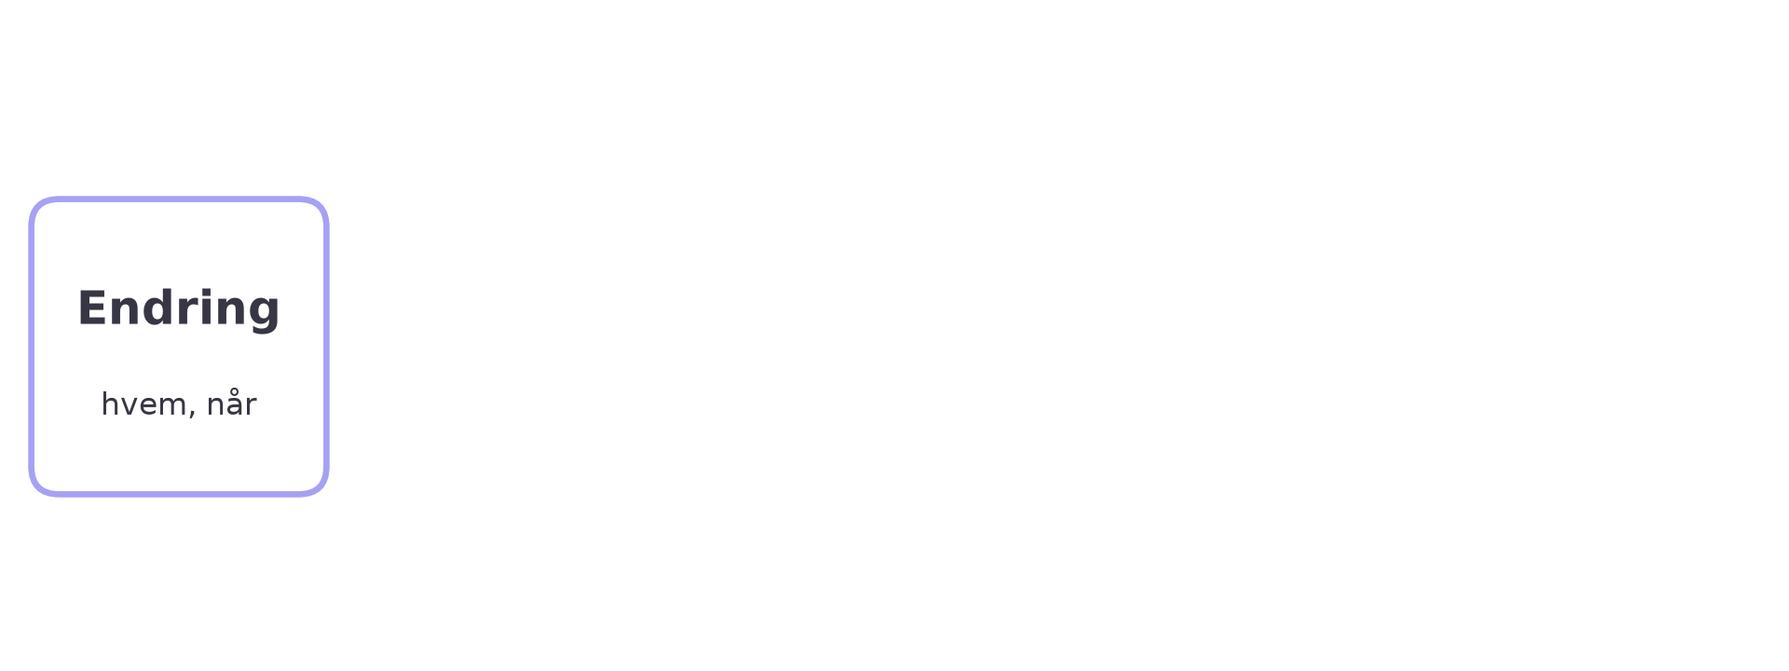
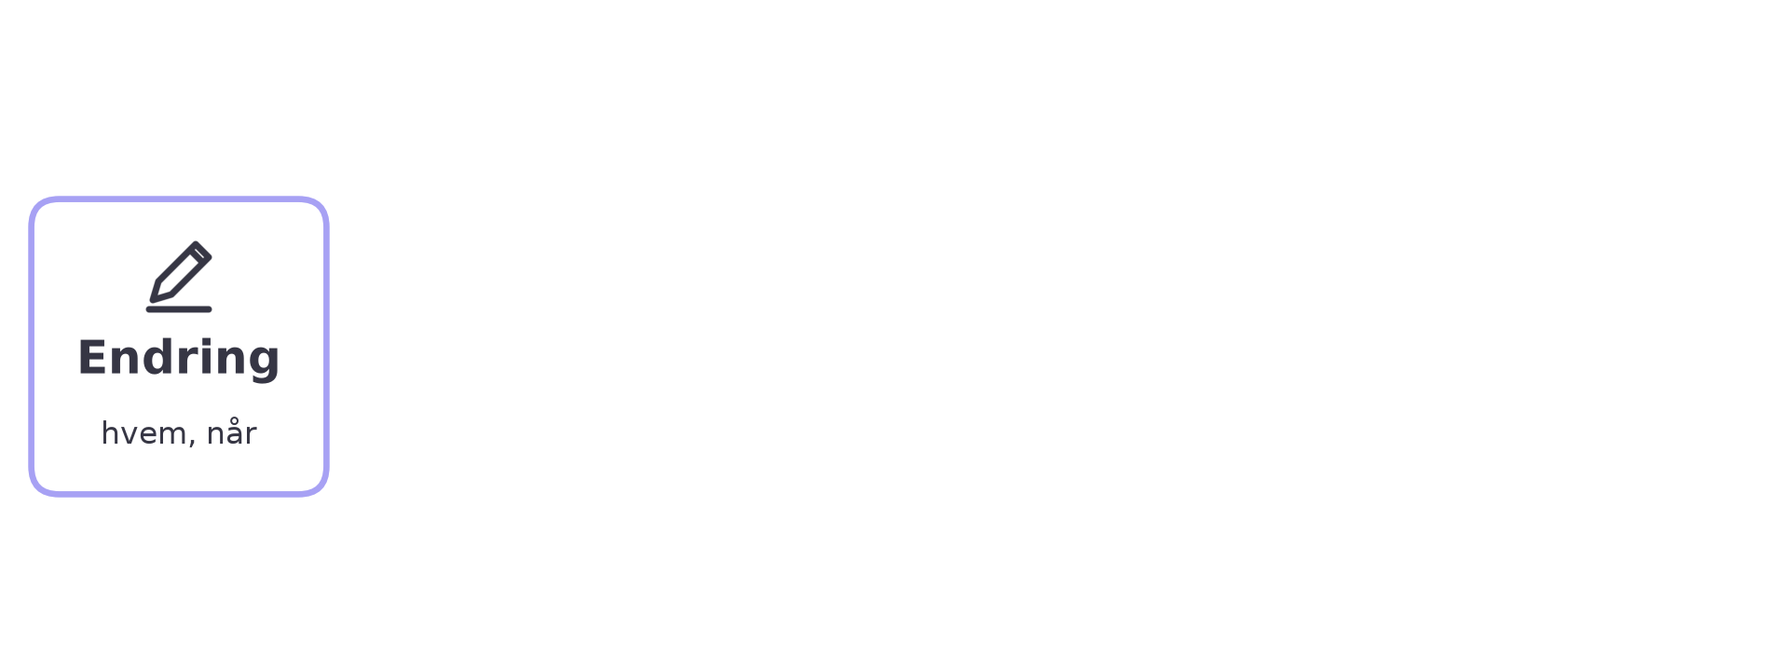
Åpen forskning, Født FAIR; samskriving; NOR-CAM; piktogrammer
Claude-Session: https://claude.ai/code/session_016zWeqZ6yZ7hxAzraApGpHd

Changed region(s): [[0.0312, 0.3667, 0.1562, 0.6722]]

diff --git a/index.html b/index.html
@@ -185,8 +185,8 @@
   .reveal section.title-photo .big { color: #363644; font-size: .95em; font-weight: 500; text-align: left; margin: 0; }
   .reveal section.title-photo .kicker { color: #4a5568; text-align: left; }
   .reveal section.title-photo .byline { color: #363644; font-size: .75em; text-align: left; margin: 0 0 .3em; }
-  .eco { display: flex; flex-wrap: wrap; gap: .35em; justify-content: center; margin: .3em auto .7em; font-size: .75em; }
-  .eco span { background: #eefbe8; border: 2px solid #8fd67a; border-radius: 999px; padding: .2em .8em; font-weight: 700; }
+  .eco { display: flex; flex-wrap: wrap; gap: .3em; justify-content: center; margin: .3em auto .7em; font-size: .66em; }
+  .eco span { background: #eefbe8; border: 2px solid #8fd67a; border-radius: 999px; padding: .2em .6em; font-weight: 700; }
   .fair { display: grid; grid-template-columns: repeat(4, 1fr); gap: .5em; width: 94%; margin: 0 auto; text-align: left; }
   .fair div { border: 2px solid var(--mm-purple); border-radius: 12px; padding: .4em .6em; font-size: .75em; }
   .fair b { display: block; font-size: 2.4em; line-height: 1; color: #5a4fcf; }
@@ -196,6 +196,13 @@
   .why .card { font-size: .85em; } .why .card p { margin: 0; color: var(--muted); }
   .split2 { display: grid; grid-template-columns: 1fr 1fr; gap: .8em; width: 80%; margin: .5em auto 0; text-align: left; }
   .split2 .card { font-size: .85em; } .split2 ul { margin: .2em 0 0 1em; } .split2 li { margin: .15em 0; }
+  .reveal img.ico { display: inline-block; width: 1.3em; height: 1.3em; vertical-align: middle; margin: -.15em .4em 0 0; max-height: none; border: 0; box-shadow: none; }
+  .reveal .fair img.ico { display: block; width: 2.2em; height: 2.2em; margin: .3em 0 .1em; }
+  .reveal .eco img.ico { width: 1.1em; height: 1.1em; margin: -.1em .3em 0 0; }
+  html.dark .ico { filter: invert(1); }
+  .norcam { display: grid; grid-template-columns: auto 1fr; gap: 1.2em; align-items: center; width: 84%; margin: .4em auto 0; text-align: left; }
+  .reveal .norcam img { height: 56vh; width: auto; margin: 0; box-shadow: 0 4px 18px rgba(0,0,0,.18); }
+  .norcam .big { font-size: 1em; }
 </style>
 </head>
 <body>
@@ -239,22 +246,20 @@
 <section>
   <section class="chapter" data-background-color="#5a4fcf">
     <p class="chapnum" style="color:#fff">1</p>
-    <h2 style="color:#fff">Hvorfor åpen forskning nå?</h2>
+    <h2 style="color:#fff">Åpen forskning</h2>
     <aside class="notes">Først: hvorfor åpen forskning er viktigere nå enn før.</aside>
   </section>
   <section class="center-slide">
-    <p class="kicker">Åpen forskning</p>
     <h2>Hvorfor er åpenhet viktigere med KI?</h2>
     <div class="why">
-      <div class="card purple fragment"><h3>Bevis</h3><p>Maskinene kan lage produktet. Bare prosessen viser hvem som gjorde hva.</p></div>
-      <div class="card green fragment"><h3>Tillit</h3><p>Når tekst kan genereres, flytter tilliten seg til det som kan etterprøves.</p></div>
-      <div class="card purple fragment"><h3>Etterprøvbarhet</h3><p>Modellene skifter. Uten versjoner og data kan ingen gjenta resultatet.</p></div>
-      <div class="card green fragment"><h3>Egne modeller</h3><p>Åpne og FAIR data er grunnlaget for modeller vi kan stole på.</p></div>
+      <div class="card purple fragment"><h3><img class="ico" src="images/ico/search.svg" alt="">Bevis</h3><p>Maskinene kan lage produktet. Bare prosessen viser hvem som gjorde hva.</p></div>
+      <div class="card green fragment"><h3><img class="ico" src="images/ico/shield.svg" alt="">Tillit</h3><p>Når tekst kan genereres, flytter tilliten seg til det som kan etterprøves.</p></div>
+      <div class="card purple fragment"><h3><img class="ico" src="images/ico/repeat.svg" alt="">Etterprøvbarhet</h3><p>Modellene skifter. Uten versjoner og data kan ingen gjenta resultatet.</p></div>
+      <div class="card green fragment"><h3><img class="ico" src="images/ico/chip.svg" alt="">Egne modeller</h3><p>Åpne og FAIR data er grunnlaget for modeller vi kan stole på.</p></div>
     </div>
     <aside class="notes">Åpen forskning har vært et ideal i mange år. Med KI blir det en nødvendighet, av fire grunner. (Klikk.) Bevis: når en maskin kan skrive artikkelen og analysere dataene, er det ferdige produktet ikke lenger et bevis på at kandidaten kan forske. Det er bare prosessen som viser hvem som gjorde hva. (Klikk.) Tillit: når tekst kan genereres, kan vi ikke stole på teksten alene. Tilliten må flytte seg til det som kan etterprøves: data, kode, versjoner og logg. (Klikk.) Etterprøvbarhet: modellene skifter hele tiden, som jeg skal vise. Uten versjonsnummer og data kan ingen gjenta resultatet, heller ikke vi selv om et år. (Klikk.) Egne modeller: hvis vi vil ha modeller vi kan stole på, må de trenes på materiale vi vet hva er, og det krever åpne og FAIR data med lisens. Åpen forskning er altså ikke bare et etisk krav, men selve løsningen.</aside>
   </section>
   <section class="center-slide">
-    <p class="kicker">Mennesker og maskiner</p>
     <h2>Strengere med maskiner enn med mennesker?</h2>
     <div class="layers" style="width:1400px">
       <img class="lay" src="images/fig-roles-1.png" alt="">
@@ -265,7 +270,6 @@
     <aside class="notes">Forskere har alltid fått hjelp. En vitenskapelig assistent finner litteratur, samler inn og analyserer data. (Klikk.) En språkvasker retter språk, form og referanser. De blir takket i forordet, men ingen ber om en logg over hva de endret. (Klikk.) En KI-agent kan gjøre begge jobbene. Og nå krever vi erklæringer, versjonsnummer og helst en andel generert tekst. Er vi strengere med maskiner enn med mennesker? Delvis med god grunn: et menneske kan stå til ansvar, det kan ikke en modell. Men en stipendiat har også fått hjelp av veiledere, kolleger og samtaler i gangen, og det har vi aldri dokumentert. (Klikk.) Så spørsmålet går begge veier: hvis åpenhet er riktig for maskinene, er vi klare for å kreve det samme av mennesker? Verktøyene jeg skal vise, gjør ikke forskjell på dem.</aside>
   </section>
   <section class="center-slide" data-depth="more">
-    <p class="kicker">Agenter</p>
     <h2>Hvem tok valgene underveis?</h2>
     <div class="layers" style="width:1700px">
       <img class="lay" src="images/fig-agent-1.png" alt="">
@@ -274,12 +278,10 @@
     <aside class="notes">Det siste året har KI-verktøyene endret seg. Generativ KI svarer på en bestilling: du spør, den svarer, og du bestemmer hva som skjer videre. (Klikk.) Agentisk KI får et mål og går mange steg på egen hånd: planlegger, bruker verktøy, sjekker og prøver igjen. Da er spørsmålet ikke bare hvem som skrev teksten, men hvem som tok valgene underveis. For en veileder er det det samme spørsmålet vi alltid har stilt om en stipendiat. Det samme skillet kommer i innledningen til DNVA-møtet om forskningsetikk og KI i kveld.</aside>
   </section>
   <section class="center-slide" data-depth="more">
-    <p class="kicker">Uke for uke</p>
     <img class="fig" src="images/fig-uker.png" alt="Endringer per uke i 2026, med og uten KI-medforfatter" style="max-height:70vh">
     <aside class="notes">Av endringene i repoene mine i år har <span data-n="commits_ai_p"></span> en KI-medforfatter. Her er tellingen uke for uke. Lilla er endringer gjort av mennesker alene, grønn er endringer med en KI-medforfatter. Våren var det meste mitt eget; fra sommeren har agentene gjort en stor del av arbeidet. Den siste uken er ikke ferdig. Poenget er ikke tallet, men at det kan telles.</aside>
   </section>
   <section class="center-slide" data-depth="more">
-    <p class="kicker">Et eksempel</p>
     <h2>Agenten rydder, jeg bestemmer</h2>
     <img src="images/osdb-zenodo.png" alt="Zenodo-posten for Oslo Standstill Database, med samlinger og versjoner" style="max-height:58vh;border-radius:10px">
     <aside class="notes">Et eksempel fra i sommer, som jeg også viste for UiOs datamanagere i går. Oslo Standstill Database er femten år med bevegelsesdata fra folk som prøver å stå stille. Jeg hadde tenkt å rydde i den i ti år. Med KI-agenter tok det omtrent to måneder: hver samling er nå sin egen post med egen DOI, med siteringsfil og sjekksummer. Agenten gjorde ryddejobben, jeg leste og bestemte. Det er den arbeidsdelingen jeg ønsker for stipendiatene også.</aside>
@@ -290,17 +292,15 @@
 <section>
   <section class="chapter" data-background-color="#C1F7AE">
     <p class="chapnum" style="color:#363644">2</p>
-    <h2 style="color:#363644">En åpen og FAIR prosess</h2>
+    <h2 style="color:#363644">Født FAIR</h2>
     <aside class="notes">Så verktøyene. De finnes allerede, og de er gratis.</aside>
   </section>
   <section class="center-slide">
-    <p class="kicker">Versjonskontroll</p>
     <h2>Hver endring har en forfatter, et tidspunkt og en melding</h2>
     <pre class="code" style="white-space:pre-wrap;font-size:.62em;max-width:1700px;margin:0 auto"><span data-n="commit_msg"></span></pre>
     <aside class="notes">Dette er en ekte endring fra i forrige uke, i læreboken til emnet Creative AI. Versjonskontrollsystemet git har vært standard i programvareutvikling i tyve år. Hver endring får en forfatter, et tidspunkt, en melding og et fingeravtrykk. Den siste linjen sier at en KI-agent var medforfatter, og hvilken modell. Det er en konvensjon som de vanlige verktøyene allerede forstår: nettstedet viser medforfatteren ved siden av meg, og kommandolinjeverktøyet gh kan hente det samme ut. Det koster meg ingenting ekstra.</aside>
   </section>
   <section class="center-slide">
-    <p class="kicker">Identifikatorer</p>
     <h2>Fra endring til sitering</h2>
     <div class="layers" style="width:1700px">
       <img class="lay" src="images/fig-kjede-0.png" alt="Endring: hvem, når, hva">
@@ -312,13 +312,11 @@
     <aside class="notes">Endringene samles i versjoner. (Klikk.) En versjon arkiveres og får en DOI, en varig identifikator som peker på nøyaktig den versjonen. (Klikk.) Forfatterne knyttes til den med ORCID. (Klikk.) Og en liten fil i prosjektet forteller hvordan det skal siteres, i et format maskiner kan lese. (Klikk.) Alt dette er gratis, åpent og i bruk i dag. Vi trenger ikke å finne opp noe nytt for å dokumentere hva som er gjort, av hvem og når.</aside>
   </section>
   <section class="center-slide">
-    <p class="kicker">Arbeidslogg</p>
     <h2>Skriv ned hva som ble gjort, og av hvem</h2>
     <pre class="code" style="white-space:pre-wrap;font-size:.62em;max-width:1700px;margin:0 auto"><span data-n="worklog"></span></pre>
     <aside class="notes">Det andre verktøyet er det enkleste av alle: en arbeidslogg i ren tekst i hver prosjektmappe. Dette er den siste oppføringen i mappen for dette innlegget, skrevet da lysbildene ble laget. Loggen sier hva som ble gjort, med hvilke verktøy og hvem som bestemte. Den er versjonert som alt annet, så den kan ikke skrives om i ettertid uten at det synes.</aside>
   </section>
   <section class="center-slide">
-    <p class="kicker">Mennesker og maskiner</p>
     <h2>Hvert bidrag har en avsender</h2>
     <div class="layers" style="width:1700px">
       <img class="lay" src="images/fig-provenance-1.png" alt="">
@@ -328,21 +326,29 @@
     <aside class="notes">Sett sammen blir det slik. Hvert steg i et prosjekt er en versjon med et tidspunkt. (Klikk.) Og hvert bidrag har en avsender: et menneske med ORCID, (klikk) eller en maskin med modell og versjon. I programvareutvikling har man arbeidet slik i mange år. For en stipendiat betyr det at veilederen, og senere komiteen, kan se hvem som gjorde hva og når, uten at noen må huske det i ettertid.</aside>
   </section>
   <section class="center-slide">
-    <p class="kicker">Et økosystem</p>
     <h2>FAIR for forskningsprosessen</h2>
     <div class="eco">
-      <span>Repo</span><span>Saker</span><span>Gjennomgang</span><span>Automatiske sjekker</span><span>Utgivelser</span><span>Nettsider</span>
+      <span><img class="ico" src="images/ico/folder.svg" alt="">Repo</span><span><img class="ico" src="images/ico/ticket.svg" alt="">Saker</span><span><img class="ico" src="images/ico/eye.svg" alt="">Gjennomgang</span><span><img class="ico" src="images/ico/check.svg" alt="">Automatiske sjekker</span><span><img class="ico" src="images/ico/tag.svg" alt="">Utgivelser</span><span><img class="ico" src="images/ico/globe.svg" alt="">Nettsider</span>
     </div>
     <div class="fair fragment">
-      <div><b>F</b><h3>Finnbar</h3><p>hver utgivelse får en DOI</p></div>
-      <div><b>A</b><h3>Tilgjengelig</h3><p>åpent, eller bak innlogging</p></div>
-      <div><b>I</b><h3>Interoperabel</h3><p>git, ren tekst, maskinlesbar metadata</p></div>
-      <div><b>R</b><h3>Gjenbrukbar</h3><p>lisens og hele historikken</p></div>
+      <div><b>F</b><img class="ico" src="images/ico/search.svg" alt=""><h3>Finnbar</h3><p>hver utgivelse får en DOI</p></div>
+      <div><b>A</b><img class="ico" src="images/ico/key.svg" alt=""><h3>Tilgjengelig</h3><p>åpent, eller bak innlogging</p></div>
+      <div><b>I</b><img class="ico" src="images/ico/puzzle.svg" alt=""><h3>Interoperabel</h3><p>git, ren tekst, maskinlesbar metadata</p></div>
+      <div><b>R</b><img class="ico" src="images/ico/recycle.svg" alt=""><h3>Gjenbrukbar</h3><p>lisens og hele historikken</p></div>
     </div>
     <aside class="notes">Verktøyene henger sammen i et økosystem. GitHub er det mest brukte, men GitLab, Codeberg og UiOs egen github.uio.no gjør det samme. Repoet holder alle versjonene. Saker er spørsmål og beslutninger, med navn og dato. Gjennomgang er der noen leser en endring og godkjenner den, slik en veileder gjør. Automatiske sjekker bygger dokumentet og kontrollerer tall og lenker hver gang noe endres. Utgivelser arkiveres i Zenodo og får en DOI, og nettsider gjør resultatet lesbart for andre. Disse lysbildene ligger selv på github.uio.no. (Klikk.) Til sammen er dette FAIR, ikke for dataene, men for prosessen. Finnbar, fordi hver utgivelse har en DOI. Tilgjengelig, åpent eller bak innlogging når materialet ikke kan deles. Interoperabel, fordi git og ren tekst kan leses av alle verktøy, også om tjue år. Og gjenbrukbar, med lisens og hele historikken. For en doktorgrad kan avhandlingen være et repo, og veiledningen kan ligge i sakene og gjennomgangene. Da kan komiteen se veien, ikke bare målet.</aside>
   </section>
+  <section class="center-slide">
+    <h2>Mange mennesker, mange agenter</h2>
+    <div class="layers" style="width:1500px">
+      <img class="lay" src="images/fig-samarbeid-0.png" alt="Et felles repo med hovedgren, grener og en utgivelse med DOI">
+      <img class="lay fragment" src="images/fig-samarbeid-1.png" alt="Menneskene: stipendiat, veileder, medforfatter og datamanager, hver med ORCID">
+      <img class="lay fragment" src="images/fig-samarbeid-2.png" alt="Agentene: skriving, analyse, kontroll og kuratering, hver med modell og versjon">
+      <img class="lay fragment" src="images/fig-samarbeid-3.png" alt="Arbeidsflyten: sak, gren, forslag, gjennomgang der et menneske godkjenner, sjekker og flett">
+    </div>
+    <aside class="notes">Hvordan kan mange mennesker og mange agenter skape og skrive sammen i et stort prosjekt? Programvareutviklingen har løst dette for lenge siden. Alt ligger i ett felles repo, med en hovedgren og en utgivelse med DOI til slutt. (Klikk.) Menneskene, stipendiaten, veilederen, medforfattere og datamanageren, bidrar hver med sin ORCID. (Klikk.) Agentene gjør hver sin jobb: skriving, analyse, kontroll og kuratering, hver med modell og versjon. (Klikk.) Og reglene er de samme for alle. Hver oppgave er en sak med en ansvarlig. Ingen, verken menneske eller agent, skriver rett i hovedgrenen: man jobber i sin egen gren og sender et forslag. Et menneske går gjennom forslaget og godkjenner det, og det kan verktøyet håndheve. Automatiske sjekker kontrollerer tall, referanser og lenker. Først da flettes det inn. Hver del kan ha en eier som må godkjenne, og bidragsyterlisten og KI-erklæringen kan lages fra historikken. Mennesket i løkken er altså ikke et prinsipp på papiret, men en regel i verktøyet.</aside>
+  </section>
   <section class="center-slide" data-depth="more">
-    <p class="kicker">Tidsstempel og fingeravtrykk</p>
     <h2>Endre ett tegn, og fingeravtrykket blir et helt annet</h2>
     <div class="vs" style="font-size:.8em;grid-template-columns:auto auto">
       <span class="l" style="text-align:left"><span data-n="s1"></span></span><code><span data-n="h1"></span></code>
@@ -351,7 +357,6 @@
     <aside class="notes">Fingeravtrykket er en kryptografisk sjekksum, her de første 32 tegnene av SHA-256. To setninger som bare skiller seg i det siste tegnet, punktum mot komma, får helt forskjellige fingeravtrykk. Derfor kan ingen endre en versjon i ettertid uten at det synes. Sammen med tidsstempelet er dette et dokumentasjonssystem som er mer presist enn noe vi har hatt i forskningen før.</aside>
   </section>
   <section class="center-slide" data-depth="more">
-    <p class="kicker">Et eksempel</p>
     <h2>Musical Gestures Toolbox</h2>
     <div class="nums">
       <div><b><span data-n="mgt_commits"></span></b><span>endringer siden <span data-n="mgt_first"></span></span></div>
@@ -361,7 +366,6 @@
     <aside class="notes">Et eksempel fra egen forskning: verktøykassen vi bruker til videoanalyse ved RITMO og fourMs-laben. Siste versjon er <span data-n="mgt_version"></span>, utgitt <span data-n="mgt_released"></span>, med DOI <span data-n="mgt_doi"></span>. Hver versjon arkiveres automatisk og får sin egen DOI, så en artikkel kan peke på nøyaktig den koden som ble brukt.</aside>
   </section>
   <section class="center-slide" data-depth="deeper">
-    <p class="kicker">Sitering</p>
     <h2>Slik skal dette siteres</h2>
     <pre class="code" style="font-size:.6em;max-width:1750px;white-space:pre-wrap;margin:0 auto">cff-version: 1.2.0
 title: "<span data-n="mgt_title"></span>"
@@ -371,7 +375,6 @@ date-released: "<span data-n="mgt_released"></span>"</pre>
     <aside class="notes">Utdrag av siteringsfilen i repoet, CITATION.cff. Nettsteder og referanseverktøy leser den og lager en riktig referanse, med versjon og DOI.</aside>
   </section>
   <section class="center-slide" data-depth="more">
-    <p class="kicker">Erklæring</p>
     <h2>KI er et verktøy, ikke en forfatter</h2>
     <div class="vs" style="font-size:1em">
       <span class="l">Mennesker</span><span class="m">får</span><span class="r">roller</span>
@@ -389,7 +392,6 @@ date-released: "<span data-n="mgt_released"></span>"</pre>
     <aside class="notes">Når prosessen er dokumentert, kan vi også vurdere den.</aside>
   </section>
   <section class="center-slide">
-    <p class="kicker">Forskerutdanning</p>
     <h2>Hva skal til for å bli forsker i dag?</h2>
     <div class="layers" style="width:1600px">
       <img class="lay" src="images/fig-career-1.png" alt="">
@@ -399,19 +401,19 @@ date-released: "<span data-n="mgt_released"></span>"</pre>
     <aside class="notes">Tradisjonelt lærer man å forske gjennom hele løpet, og det første selvstendige bidraget kommer gjerne i doktorgraden. (Klikk.) Med KI kan en bachelorstudent i noen fag gjennomføre et ordentlig forskningsprosjekt: samle inn data, analysere og skrive. (Klikk.) I andre fag kan selv en postdoktor slite med å gi et bidrag som maskinene ikke allerede kan gi. Kurvene er en illustrasjon, ikke en måling. Hvis produktet ikke lenger skiller den som kan forske fra den som ikke kan, må vurderingen se på noe annet: prosessen, og om kandidaten kan forklare den.</aside>
   </section>
   <section class="center-slide">
-    <p class="kicker">Vurdering</p>
     <h2>Vurder hele arbeidet, ikke bare artikkelen</h2>
-    <p class="big" style="font-size:1em">Data, kode, video, prosessen, undervisning, formidling og ledelse teller</p>
-    <aside class="notes">Hvis prosessen er dokumentert, kan vi også vurdere den. Det er tanken bak NOR-CAM, rammeverket for vurdering av akademiske karrierer som Universitets- og høgskolerådet la frem i 2021. Det regner forskningsresultater bredt, med data, kildekode og video, og det har forskningsprosessen som et eget kompetanseområde, ved siden av undervisning, samspill med samfunnet og ledelse. Det passer godt med spørsmålet Astrid stiller i panelet: er artikler og disputas det produktet vi trenger?</aside>
+    <div class="norcam">
+      <img src="images/nor-cam-rapport.png" alt="Forsiden av NOR-CAM-rapporten fra Universitets- og høgskolerådet, 2021">
+      <p class="big">NOR-CAM, 2021: data, kode, video, prosessen, undervisning, formidling og ledelse teller</p>
+    </div>
+    <aside class="notes">Hvis prosessen er dokumentert, kan vi også vurdere den. Det er tanken bak NOR-CAM, rapporten og rammeverket for vurdering av akademiske karrierer som Universitets- og høgskolerådet la frem i 2021. Det regner forskningsresultater bredt, med data, kildekode og video, og det har forskningsprosessen som et eget kompetanseområde, ved siden av undervisning, samspill med samfunnet og ledelse. Det passer godt med spørsmålet Astrid stiller i panelet: er artikler og disputas det produktet vi trenger?</aside>
   </section>
   <section class="center-slide">
-    <p class="kicker">Muntlig og helhetlig</p>
     <h2>La kandidaten forklare arbeidet</h2>
     <p class="big" style="font-size:1em">Et større arbeid, forsvart muntlig</p>
     <aside class="notes">Når en KI kan skrive en tekst som ser ferdig ut, blir det muntlige viktigere, ikke mindre viktig. Disputasen er allerede en muntlig prøve. Vi kan styrke den: vurdere et større arbeid, en portefølje med data, kode og tekst, og la kandidaten forklare valgene sine. I kunstnerisk forskning gjør vi dette allerede med eksposisjoner, og i emnet Creative AI er eksamen en portefølje med en logg over hvordan verktøyene ble brukt.</aside>
   </section>
   <section class="center-slide" data-depth="more">
-    <p class="kicker">Publisering</p>
     <h2>Åpen publisering, åpen vurdering</h2>
     <div class="layers" style="width:1600px">
       <img class="lay" src="images/fig-prc-0.png" alt="Publiser først, gratis">
@@ -421,7 +423,6 @@ date-released: "<span data-n="mgt_released"></span>"</pre>
     <aside class="notes">Den samme åpenheten er på vei inn i publiseringen. Open Research Europe er den europeiske publiseringsplattformen som fra høsten 2026 drives av CERN, med EU-kommisjonen og forskningsråd i flere land bak, også Norges forskningsråd. Det er diamant-åpen tilgang: gratis å lese og gratis å publisere. Modellen kalles publiser, vurder, kurater: artikkelen publiseres først etter en enkel sjekk, (klikk) fagfellevurderingen skjer etterpå og er åpen for alle, (klikk) og så samles det beste. Da blir også vurderingen en del av dokumentasjonen. Kilde: Forskningsrådets nyhet av 26. mars 2026.</aside>
   </section>
   <section data-depth="deeper">
-    <p class="kicker">Mer radikalt</p>
     <h2>Andre måter å vurdere på</h2>
     <ul style="font-size:.85em">
       <li class="fragment">En fortellende CV i stedet for en publikasjonsliste</li>
@@ -442,13 +443,11 @@ date-released: "<span data-n="mgt_released"></span>"</pre>
     <aside class="notes">Til slutt det vi ikke har kontroll på.</aside>
   </section>
   <section class="center-slide">
-    <p class="kicker">Det vi ikke har kontroll på</p>
     <h2>Det vi ikke kan dokumentere, er modellen</h2>
     <img class="fig" src="images/fig-svartboks.png" alt="Data, kode, logg og versjon kan dokumenteres; modellen kan ikke det" style="max-height:52vh">
     <aside class="notes">Alt til venstre kan vi dokumentere. Det vi ikke har kontroll på, er innholdet i modellene, særlig de kommersielle. Vi vet ikke hva de er trent på, og en modell kan ikke peke tilbake til kildene sine. Vi kan skrive at vi brukte en modell og hvilken versjon, men ikke hva som er inne i den.</aside>
   </section>
   <section class="center-slide">
-    <p class="kicker">Verktøy og modell</p>
     <h2>Verktøyet er ikke modellen</h2>
     <div class="layers" style="width:1600px">
       <img class="lay" src="images/fig-verktoy-modell-0.png" alt="Agentverktøy: Claude Code, Codex, Copilot i VS Code, Cursor og opencode">
@@ -457,7 +456,6 @@ date-released: "<span data-n="mgt_released"></span>"</pre>
     <aside class="notes">Et skille mange overser. Øverst er agentverktøyene, det man sitter i og gir oppgaver til. (Klikk.) Under er modellene, motoren som gjør jobben. Noen verktøy er knyttet til én leverandør, andre kan bruke mange modeller, også åpne modeller som kjører lokalt. Samme modell sitter i flere verktøy, og samme verktøy kan bytte modell midt i et prosjekt. Når en stipendiat skriver "jeg brukte KI", må vi derfor spørre: hvilket verktøy, hvilken modell, og hvilken versjon?</aside>
   </section>
   <section class="center-slide">
-    <p class="kicker">Versjoner</p>
     <h2>Modellene skifter hele tiden</h2>
     <div class="layers" style="width:1500px">
       <img class="lay" src="images/fig-modellversjoner-0.png" alt="Modellversjonene som har vært medforfattere på Alexanders commits i 2026, som stolper fra første til siste dag">
@@ -466,7 +464,6 @@ date-released: "<span data-n="mgt_released"></span>"</pre>
     <aside class="notes">Og modellene endrer seg. Dette er modellversjonene som har vært medforfatter på endringene mine i år, hentet fra git-historikken: <span data-n="n_models"></span> versjoner siden juni, og hver av dem har vært i bruk i noen uker eller måneder før neste tok over. Det samme spørsmålet gir et annet svar med en ny versjon, og de gamle versjonene forsvinner fra tjenestene. (Klikk.) Og det er bare én leverandør. I samme periode har de andre store selskapene og de åpne modellene kommet med nye versjoner hele tiden: her er <span data-n="n_releases"></span> av utgivelsene i år fra OpenAI, Google og de åpne modellene Qwen, DeepSeek og Mistral. Å skrive "ChatGPT" eller "Claude" i metodekapittelet er som å oppgi "et mikroskop" uten merke og modell. Derfor må versjonsnummeret være med, slik det står i commit-linjen vi så i sted, og slik det står i KI-erklæringen.</aside>
   </section>
   <section class="center-slide">
-    <p class="kicker">MishMash</p>
     <h2>Derfor egne modeller</h2>
     <p class="big" style="font-size:1em">Små modeller, kjent materiale, åpen kode</p>
     <aside class="notes">Derfor trenger vi modeller vi har kontroll på: små modeller trent på eget materiale, der vi vet hva som er med, og større norske modeller med innsyn i treningsdata. Det er et hovedfokus i MishMash. Da kan hele kjeden dokumenteres, også modellen.</aside>
@@ -480,11 +477,10 @@ date-released: "<span data-n="mgt_released"></span>"</pre>
     <aside class="notes">Hva betyr dette i praksis?</aside>
   </section>
   <section class="center-slide">
-    <p class="kicker">Akselerator</p>
     <h2>Agenten kan gjøre stipendiaten raskere god</h2>
     <div class="split2">
-      <div class="card green fragment"><h3>Agenten</h3><ul><li>stiller spørsmål</li><li>følger opp</li><li>foreslår metoder og litteratur</li><li>gir tilbakemelding med en gang</li></ul></div>
-      <div class="card purple fragment"><h3>Veilederen</h3><ul><li>erfaring og skjønn</li><li>fagfellesskap og nettverk</li><li>ansvar</li><li>leser loggen</li></ul></div>
+      <div class="card green fragment"><h3><img class="ico" src="images/ico/robot.svg" alt="">Agenten</h3><ul><li>stiller spørsmål</li><li>følger opp</li><li>foreslår metoder og litteratur</li><li>gir tilbakemelding med en gang</li></ul></div>
+      <div class="card purple fragment"><h3><img class="ico" src="images/ico/person.svg" alt="">Veilederen</h3><ul><li>erfaring og skjønn</li><li>fagfellesskap og nettverk</li><li>ansvar</li><li>leser loggen</li></ul></div>
     </div>
     <p class="big fragment" style="font-size:1.05em;margin-top:.5em">Men bare med et menneske i løkken</p>
     <aside class="notes">Til nå har jeg snakket om KI som noe vi må kontrollere. Men agentisk KI kan også være en akselerator for å lære å forske. (Klikk.) En agent kan stille spørsmål om forskningsspørsmålet, følge opp svarene, foreslå metoder og litteratur, og gi tilbakemelding på tekst og kode med en gang, når som helst, og så mange ganger stipendiaten vil. Det er mentorering i et tempo ingen veileder kan gi. (Klikk.) Veilederen blir ikke overflødig, men får en annen rolle: erfaring og skjønn, fagfellesskapet og nettverket, og ansvaret. Og hvis prosessen er åpen, kan veilederen lese loggen og se hva som har skjedd mellom møtene. (Klikk.) Men det avgjørende er et menneske i løkken. Agenten må brukes til å lære, ikke til å slippe å lære: la den spørre, ikke svare, og det kan man faktisk be den om. Og noen må lese det den har gjort og ta valgene: stipendiaten i hvert steg, veilederen jevnlig. Uten et menneske i løkken får vi et produkt uten forsker.</aside>
@@ -511,7 +507,6 @@ date-released: "<span data-n="mgt_released"></span>"</pre>
     <aside class="notes">I tråd med temaet: slik ble presentasjonen laget. Jeg ga en KI-agent (Claude, Anthropic) idéen og temaene: versjonskontroll, tidsstempler, DOI, Open Research Europe og NOR-CAM. (Klikk.) Den laget et første utkast, hentet tallene med et skript fra git-historikken og tegnet figurene. (Klikk.) Jeg kommenterte, og den laget en ny versjon. (Klikk.) Og så flere kommentarer og flere versjoner: lysbildene har nå <span data-n="deck_commits"></span> lagrede versjoner i git, de fleste fra kvelden før. (Klikk.) Resultatet er lysbildene, og ansvaret er mitt.</aside>
   </section>
   <section class="center-slide" data-depth="more">
-    <p class="kicker">Presentasjonens egen logg</p>
     <pre class="code" style="font-size:.7em;max-width:1500px;margin:0 auto"><span data-n="gitlog"></span></pre>
     <aside class="notes">Og presentasjonen har selvsagt sin egen versjonshistorikk. Dette er de siste endringene, hentet automatisk fra git.</aside>
   </section>

diff --git a/images/numbers.js b/images/numbers.js
@@ -1,6 +1,6 @@
 window.NUMBERS = {
- "commits": 4751,
- "commits_ai": 2601,
+ "commits": 4754,
+ "commits_ai": 2604,
  "commits_ai_p": "55 %",
  "repos": 64,
  "repos_ai": 42,
@@ -18,8 +18,8 @@ window.NUMBERS = {
  "n_models": 7,
  "n_releases": 21,
  "updated": "2026-11-11",
- "worklog": "## 2026-11-11, ny struktur\n\nInnlegget er bygget om rundt forskerutdanningen, etter Alexanders bestilling: når maskinene kan levere produktet, må vi lære bort og vurdere prosessen. Fire kapitler med farget bakgrunn (veiledning er kvalitetskontroll, dokumenter prosessen, vurder prosessen, kjenn modellen) og tre råd til slutt. Fra DNVA-innledningen 12. november: generativ eller agentisk KI og kurvene for når man kan gi et selvstendig bidrag. Fra foredraget for datamanagerne 11. november: agenten rydder datasettet, mennesket bestemmer, og paradata i stedet for skjemaer. Lysbildet \"Ti minutter\" er fjernet, og \"Hvor jeg snakker fra\" er nytt etter tittelen.\n\nTittellysbildet har nå Alexanders fotografi av merkestikker i tåke (20. februar 2024) over hele skjermen, med navnet hans, tittel og undertittel øverst, navn, sted og dato nederst; kjedefiguren er tatt ut der (den står fortsatt under 2). Overskriften på \"Hvor jeg snakker fra\" er fjernet.\n\nTo nye lysbilder under \"Kjenn modellen\": \"Verktøyet er ikke modellen\" (agentverktøy over, modeller under, tilpasset fra Kristiansand-figuren \"Tool is not model\") og \"Modellene skifter hele tiden\", en tidslinje over modellversjonene i Alexanders commits i 2026, telt av `facts.py` fra `Co-Authored-By`-linjene og tegnet av `make_figures.py`. Før juni sto det bare \"Copilot\" uten versjon i linjene, så tidslinjen begynner i juni.\n\nEtter Alexanders ønske: \"Hva er en veileder?\" (lærer, faglig veileder, mentor, leder, medforfatter, kvalitetskontrollør) først i kapittel 1, og \"Hvert bidrag har en avsender\" (figuren fra DNVA-presentasjonen, 1/8 der) etter arbeidsloggen i kapittel 2. Innlegget er nå 23 lysbilder og om lag 10,5 minutter med notater; forslag til kutt står i TODO.\n\n\"FAIR for forskningsprosessen\" (2/5) avslutter kapittel 2: GitHub og lignende tjenester som et økosystem (repo, saker, gjennomgang, automatiske sjekker, utgivelser, nettsider), og FAIR-bokstavene brukt på prosessen i stedet for på dataene.\n\nProfessorrollene og \"Egen bruk\" (tidligere 1/2 og 1/3) er fjernet etter Alexanders beskjed; tallet for egen bruk står nå i notatene til \"Uke for uke\". Nytt 1/2: \"Strengere med maskiner enn med mennesker?\", med assistent-, språkvasker- og agentfiguren fra DNVA-innledningen og spørsmålet \"Er vi klare for å kreve det samme av mennesker?\".\n\n\"Slik ble presentasjonen laget\" har fått tilbake den tredje runden (flere kommentarer, ny versjon), og notatene nevner antallet lagrede versjoner i presentasjonens git-historikk, telt av `facts.py`.",
- "gitlog": "aef454f  2026-11-11  Tallene og PDF-en oppdatert\n09b6e4e  2026-11-11  En runde til i samskapingsfiguren; antall versjoner fra git\n805e919  2026-11-11  Uten professorrollene og egen bruk; strengere med maskiner enn med mennesker?\n74d19d1  2026-11-11  FAIR for forskningsprosessen\nf3a474a  2026-11-11  Hva er en veileder?; hvert bidrag har en avsender (fra DNVA)\n714ad9d  2026-11-11  Verktøyet er ikke modellen; modellversjonene i 2026 fra git-historikken\ndae404d  2026-11-11  Tittel og undertittel øverst, navn, sted og dato nederst\na8fe50f  2026-11-11  Tittelteksten øverst og nederst, bildet fritt i midten",
- "deck_commits": 16,
+ "worklog": "## 2026-11-11, ny struktur\n\nInnlegget er bygget om rundt forskerutdanningen, etter Alexanders bestilling: når maskinene kan levere produktet, må vi lære bort og vurdere prosessen. Fire kapitler med farget bakgrunn (veiledning er kvalitetskontroll, dokumenter prosessen, vurder prosessen, kjenn modellen) og tre råd til slutt. Fra DNVA-innledningen 12. november: generativ eller agentisk KI og kurvene for når man kan gi et selvstendig bidrag. Fra foredraget for datamanagerne 11. november: agenten rydder datasettet, mennesket bestemmer, og paradata i stedet for skjemaer. Lysbildet \"Ti minutter\" er fjernet, og \"Hvor jeg snakker fra\" er nytt etter tittelen.\n\nTittellysbildet har nå Alexanders fotografi av merkestikker i tåke (20. februar 2024) over hele skjermen, med navnet hans, tittel og undertittel øverst, navn, sted og dato nederst; kjedefiguren er tatt ut der (den står fortsatt under 2). Overskriften på \"Hvor jeg snakker fra\" er fjernet.\n\nTo nye lysbilder under \"Kjenn modellen\": \"Verktøyet er ikke modellen\" (agentverktøy over, modeller under, tilpasset fra Kristiansand-figuren \"Tool is not model\") og \"Modellene skifter hele tiden\", en tidslinje over modellversjonene i Alexanders commits i 2026, telt av `facts.py` fra `Co-Authored-By`-linjene og tegnet av `make_figures.py`. Før juni sto det bare \"Copilot\" uten versjon i linjene, så tidslinjen begynner i juni.\n\nEtter Alexanders ønske: \"Hva er en veileder?\" (lærer, faglig veileder, mentor, leder, medforfatter, kvalitetskontrollør) først i kapittel 1, og \"Hvert bidrag har en avsender\" (figuren fra DNVA-presentasjonen, 1/8 der) etter arbeidsloggen i kapittel 2. Innlegget er nå 23 lysbilder og om lag 10,5 minutter med notater; forslag til kutt står i TODO.\n\n\"FAIR for forskningsprosessen\" (2/5) avslutter kapittel 2: GitHub og lignende tjenester som et økosystem (repo, saker, gjennomgang, automatiske sjekker, utgivelser, nettsider), og FAIR-bokstavene brukt på prosessen i stedet for på dataene.\n\nProfessorrollene og \"Egen bruk\" (tidligere 1/2 og 1/3) er fjernet etter Alexanders beskjed; tallet for egen bruk står nå i notatene til \"Uke for uke\". Nytt 1/2: \"Strengere med maskiner enn med mennesker?\", med assistent-, språkvasker- og agentfiguren fra DNVA-innledningen og spørsmålet \"Er vi klare for å kreve det samme av mennesker?\".\n\n\"Slik ble presentasjonen laget\" har fått tilbake den tredje runden (flere kommentarer, ny versjon), og notatene nevner antallet lagrede versjoner i presentasjonens git-historikk, telt av `facts.py`.\n\n\"Modellene skifter hele tiden\" (4/3) har fått et klikk til: utgivelsene i 2026 fra OpenAI, Google og åpne modeller (Qwen, DeepSeek, Mistral) som punkter under Claude-versjonene. Datoene ligger i `tools/modellutgivelser.csv` med kilde per rad, hentet 11. november: OpenAI fra Wikipedia, Google fra Googles egen modelloversikt (Gemini 3.1 Pro fra Wikipedia), de åpne modellene fra en sekundær tidslinje (hidekazu-konishi.com). Bare utvalgte hovedutgivelser er med, ikke alle varianter.\n\nVeilederdelen er fjernet etter Alexanders beskjed, for å legge vekten på løsningen. Kapittel 1 heter nå \"Hvorfor åpen forskning nå?\" og har et nytt lysbilde med fire grunner til at åpenhet er viktigere med KI (bevis, tillit, etterprøvbarhet, egne modeller), fulgt av \"Strengere med maskiner enn med mennesker?\". Kapittel 2 heter \"En åpen og FAIR prosess\".\n\nNytt 5/1 \"Agenten kan gjøre stipendiaten raskere god\": agentisk KI som akselerator for forskerferdigheter (spør, følger opp, foreslår, gir tilbakemelding med en gang) ved siden av veilederens rolle, og \"Men bare med et menneske i løkken\".",
+ "gitlog": "1e3f91e  2026-11-11  Agenten som akselerator, med et menneske i løkken\nf398713  2026-11-11  Uten veilederdelen; hvorfor åpen forskning er viktigere med KI\n478b93f  2026-11-11  Utgivelser fra OpenAI, Google og åpne modeller i tidslinjen, med kilder\naef454f  2026-11-11  Tallene og PDF-en oppdatert\n09b6e4e  2026-11-11  En runde til i samskapingsfiguren; antall versjoner fra git\n805e919  2026-11-11  Uten professorrollene og egen bruk; strengere med maskiner enn med mennesker?\n74d19d1  2026-11-11  FAIR for forskningsprosessen\nf3a474a  2026-11-11  Hva er en veileder?; hvert bidrag har en avsender (fra DNVA)",
+ "deck_commits": 19,
  "commit_msg": "commit 0b0df5e\nAuthor: Alexander Refsum Jensenius\nDate:   2026-11-06 07:44\n\n    Ten weeks: images and video merged as chapter 5, code and agents as chapter 8, and every chapter brought up to the Sensing book conventions.\n\n    Co-Authored-By: Claude Fable 5.1 <noreply@anthropic.com>"
 };

diff --git a/README.md b/README.md
@@ -16,7 +16,7 @@ Se presentasjonen: https://pages.github.uio.no/alexanje/forskningsetikk-2026/
 
 Ti minutter, på norsk. Påstanden er at det viktigste forskningsetiske grepet med kunstig intelligens er mer åpenhet, og at verktøyene for å få det til allerede finnes: versjonskontroll, tidsstempler, varige identifikatorer (DOI og ORCID), siteringsfiler og arbeidslogger gjør det mulig å dokumentere hva som er gjort av mennesker og hva av maskiner. Det vi ikke har kontroll på, er innholdet i svart-boks-modellene, særlig de kommersielle, og derfor trenger vi egne modeller med innsyn i treningsdata.
 
-Innlegget handler om forskerutdanningen: når maskinene kan levere produktet, blir en åpen og FAIR forskningsprosess viktigere enn noen gang. Det har fire kapitler: hvorfor åpen forskning nå, en åpen og FAIR prosess (med GitHub og lignende verktøy som et økosystem for åpenhet, FAIR for forskningsprosessen), vurder prosessen og kjenn modellen (der også at verktøyet ikke er modellen, og at modellene skifter, så versjonsnummeret må med), og slutter med tre råd til stipendiater og veiledere og med hvordan presentasjonen ble laget. Nederst i hver stabel ligger mer stoff til panelet.
+Innlegget handler om forskerutdanningen: når maskinene kan levere produktet, blir en åpen og FAIR forskningsprosess viktigere enn noen gang. Det har fire kapitler: åpen forskning, født FAIR (med GitHub og lignende verktøy som et økosystem for åpenhet, FAIR for forskningsprosessen, og hvordan mange mennesker og mange agenter kan skrive sammen), vurder prosessen og kjenn modellen (der også at verktøyet ikke er modellen, og at modellene skifter, så versjonsnummeret må med), og slutter med tre råd til stipendiater og veiledere og med hvordan presentasjonen ble laget. Nederst i hver stabel ligger mer stoff til panelet.
 
 ## Bruk
 
